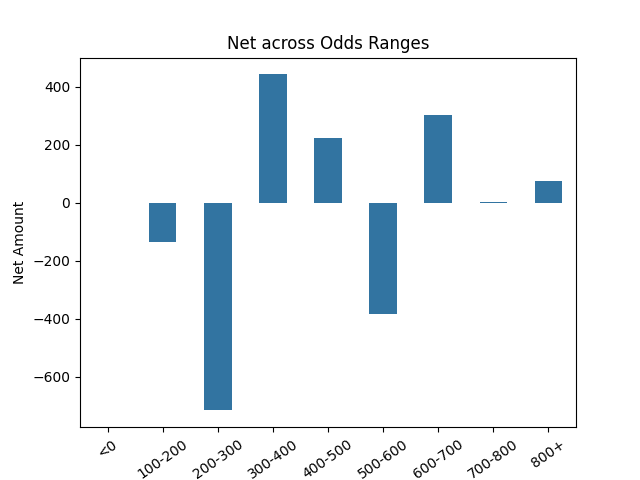
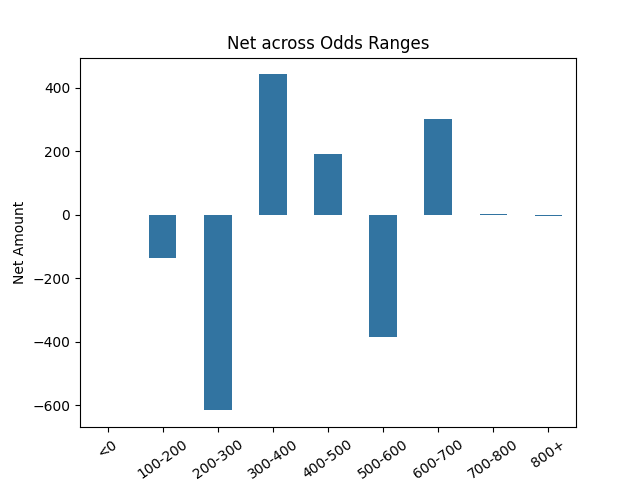
changed kelly %

diff --git a/tools/odds_calculator.py b/tools/odds_calculator.py
@@ -138,7 +138,7 @@ def find_ev_bet_two_result(game_df):
         if home_ev > ev_cutoff:
             if home_team_best_line < odds_cutoff:
                 bookie_list = list(game_df.columns[home_team_best_line_bookie_index_list])
-                percent_wager = kelly_criterion(home_true_pinnacle_prob, home_team_best_line)
+                percent_wager = kelly_criterion(home_true_pinnacle_prob, home_team_best_line)  * (2/3)
                 ret_list.append([home_team, bookie_list, home_team_best_line, home_ev, percent_wager])
 
 
@@ -146,7 +146,7 @@ def find_ev_bet_two_result(game_df):
             if away_team_best_line < odds_cutoff:
                 bookie_list = list(game_df.columns[away_team_best_line_bookie_index_list])
 
-                percent_wager = kelly_criterion(away_true_pinnacle_prob, away_team_best_line)
+                percent_wager = kelly_criterion(away_true_pinnacle_prob, away_team_best_line) * (2/3)
 
                 ret_list.append([away_team, bookie_list, away_team_best_line, away_ev, percent_wager])
 
@@ -244,19 +244,18 @@ def find_ev_bet_three_result(game_df):
         if home_ev > ev_cutoff:
             if home_team_best_line < odds_cutoff:
                 bookie_list = list(game_df.columns[home_team_best_line_bookie_index_list])
-
-                percent_wager = kelly_criterion(home_true_pinnacle_prob, home_team_best_line)
+                percent_wager = kelly_criterion(home_true_pinnacle_prob, home_team_best_line) * (2/3)
                 ret_list.append([home_team, bookie_list, home_team_best_line, home_ev, percent_wager])
         if away_ev > ev_cutoff:
             if away_team_best_line < odds_cutoff:
                 bookie_list = list(game_df.columns[away_team_best_line_bookie_index_list])
-                percent_wager = kelly_criterion(away_true_pinnacle_prob, away_team_best_line)
+                percent_wager = kelly_criterion(away_true_pinnacle_prob, away_team_best_line) * (2/3)
 
                 ret_list.append([away_team, bookie_list, away_team_best_line, away_ev, percent_wager])
         if draw_ev > ev_cutoff:
             if draw_best_line < odds_cutoff:
                 bookie_list = list(game_df.columns[draw_best_line_bookie_index_list])
-                percent_wager = kelly_criterion(draw_true_pinnacle_prob, draw_best_line)
+                percent_wager = kelly_criterion(draw_true_pinnacle_prob, draw_best_line)  * (2/3)
 
                 draw_game = "draw (" + home_team + " v " + away_team + ")"
                 ret_list.append([draw_game, bookie_list, draw_best_line, draw_ev, percent_wager])
